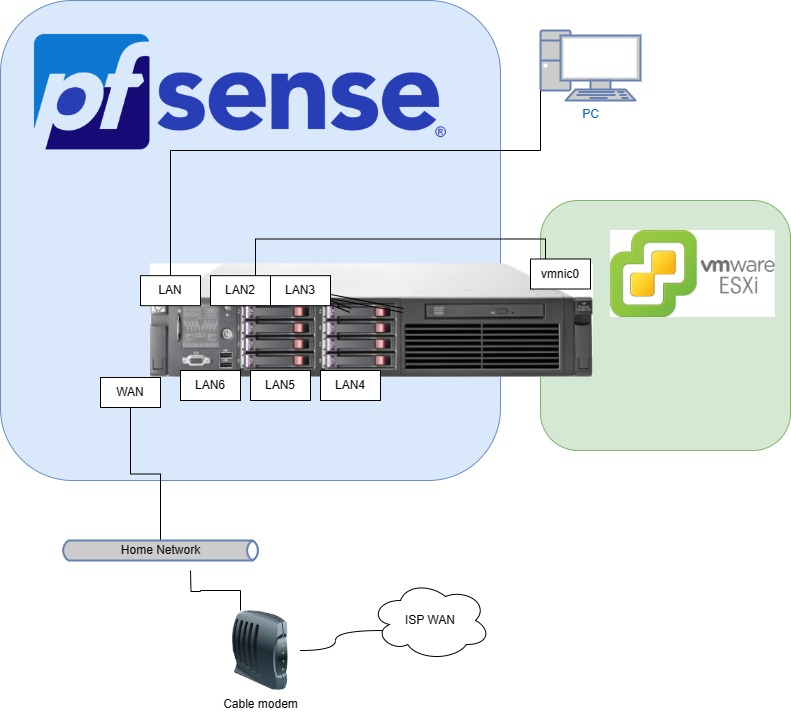
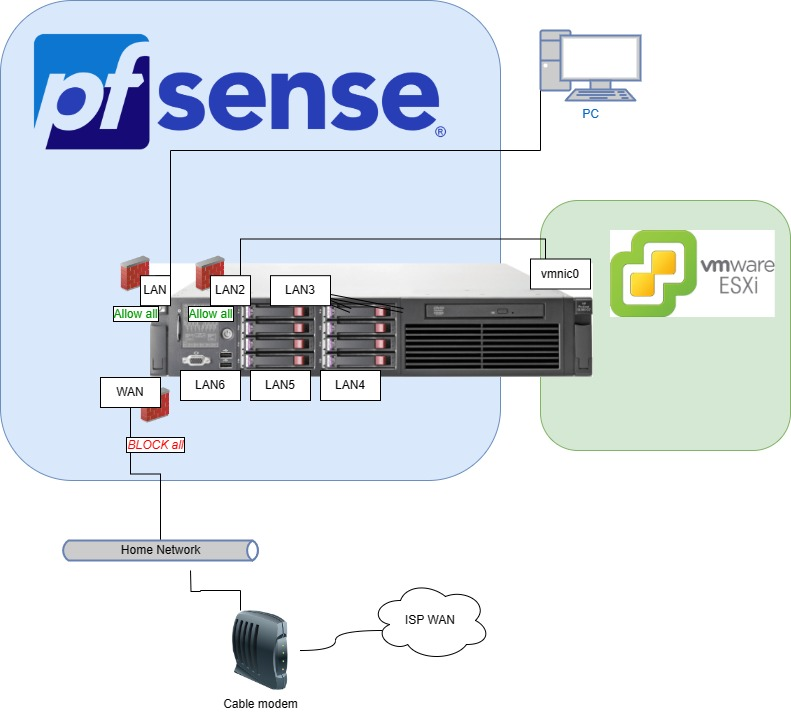
iso started

Changed region(s): [[0.1214, 0.3399, 0.3641, 0.4635], [0.1517, 0.5253, 0.2427, 0.6489]]

diff --git a/firstPFSense.md b/firstPFSense.md
@@ -294,7 +294,7 @@ My steps are based on the official guide [here](https://docs.netgate.com/pfsense
 
             All packets on LAN will go through the following assesments to determine if they will be routed to another interface:
             - ALLOW if the packet is destined for a LAN address on port 443 or 80
-                - these are the HTTPS / HTTP ports, and is the first rule to ensure you can always connect to the PFSense webconfigurator (anti lock out rule)
+                - *these are the HTTPS / HTTP ports, & this rule ensures you can always connect to the PFSense webconfigurator (anti lock out rule).*
             - ALLOW if the packet is ipv4 and from the LAN network
             - ALLOW if the packet is ipv6 and from the LAN network
             - BLOCK if the packet does not match any of the above rules (firewall default)
@@ -314,14 +314,14 @@ My steps are based on the official guide [here](https://docs.netgate.com/pfsense
             - All traffic trying to get from LAN to another interface is explicitly allowed
             - All traffic trying to get from LAN2-LAN6 to another interface is blocked
         
-    7. #### **Network expansion**
+    7. #### **Expanding the Network**
 
         If you take a look at the summary of firewall rules above, our network currently has a single physical port enabled, and that interface is allowed to connect to any other interface - this is not exactly the most advanced architecture.
 
         Thankfully you have just set up a feature-complete network appliance and have all the tools you need to build the network of your dreams!
 
-        This section is a brief description of a few of the most obvious / simple ways to expand the network we have built
-    8. #### **Net expansion: Enable other interfaces**
+        The following sections are brief descriptions of a few obvious / simple ways to expand the network we have built
+    8. #### **Expanding the Network: Enable other interfaces**
         The easiest way to expand on our network is to get another port to behave in the manner that LAN does currently. 
 
         To do this, we will:
@@ -376,20 +376,33 @@ My steps are based on the official guide [here](https://docs.netgate.com/pfsense
         - Connected devices will obtain DHCP IP configuration from the server on that interface. With the settings I used in my example, here are the IP configurations I obtained after plugging into [LAN](https://github.com/mynah22/Homelab-Guides/raw/main/screenshots/firstConfig/pfs88.jpg) and [LAN2](https://github.com/mynah22/Homelab-Guides/raw/main/screenshots/firstConfig/pfs87.jpg) 
 
 
-    8. #### **Net Expansion: add unmanaged switch**
-        This method allows the connection of multiple devices to a single internal network. 
+    8. #### **Expanding the Network: add unmanaged switch**
+
+        *OPTIONAL: REQUIRES ADDITIONAL HARDWARE*
+
+        If you have an unmanaged switch, you can add more ports to a PFSense interface, allowing multiple devices to connect to a single internal network. 
         
-        Start by plugging an ethernet cable into a LAN port on one end, and connect the other end to an unmanaged switch. By doing this, any devices you connect to the unmanaged switch will become part of the LAN network to which the switch is connected.
-            
-    8. #### **Net Expansion: vLAN trunk port**
+        Plug an ethernet cable into a LAN port on one end, and connect the other end to an unmanaged switch. Now, any devices you connect to the unmanaged switch will become part of the LAN network to which the switch is connected.
 
-        This is a technique that allows you to route / firewall traffic between ports on a **managed** switch
+        Example:
+            *Let's say you build a 'workstation' network on LAN4 for your workstations, with detailed firewall rules defining access to / from other networks - but, you only have one port available where those rules apply. If you plug an unmanaged switch into LAN4, you are able to connect several PCs to that network*
+    8. #### **Expanding the Network: vLAN trunk port**
 
-        Here is a [diagram](https://github.com/mynah22/Homelab-Guides/raw/main/screenshots/firstConfig/vlanTrunk1.jpg)
+        *OPTIONAL: REQUIRES ADDITIONAL HARDWARE*
+
+        A single PFSense interface can be used to route / manage traffic between all ports / vlans on a managed switch via trunk ports (802.1q)
+
+        This is a very powerful architecture, and is used to create robust networks using only a few ports on the server.
+
+        Here is a simple diagram 
+        
+        ![diagram](https://github.com/mynah22/Homelab-Guides/raw/main/screenshots/firstConfig/vlanTrunk1.jpg)
 
         I will link my documentation on this process here when it is complete.
     
-    9. #### **Net Expansion: WAP**
+    9. #### **Expanding the Network: WAP**
+
+        *OPTIONAL: REQUIRES ADDITIONAL HARDWARE*
 
          When you connect a Wireless Access Point (WAP) to a LAN port, all devices that connect to the WAP's SSID will have their traffic managed by PFSense. This means that the firewall rules set for that interface in PFSense will control and route the traffic of those devices.
 
@@ -404,32 +417,30 @@ My steps are based on the official guide [here](https://docs.netgate.com/pfsense
         2. plug an ethernet cable into the ESXI management port (vmnic0) on one end, and a LAN2 on the other
         2. the esxi hypervisor will obtain a DHCP lease from the PFSense DHCP server on that interface
         4. Since LAN and LAN2 have a firewall rule allowing all ipv4 packets, traffic can pass between them
-        4. on your PC, browse to the IP of the ESXI server. This IP will be listed on the server display (if you connect a vga monitor), but an easy way to determine this remotely is by looking for the hypervisor's DHCP lease:
+        4. Determine the IP of the ESXI server. This IP will be listed on the server display (if you connect a vga monitor), but an easy way to determine this remotely is by looking for the hypervisor's DHCP lease:
             - Status - dhcp leases ([screenshot](https://github.com/mynah22/Homelab-Guides/raw/main/screenshots/firstConfig/pfs89.jpg))
             - This will show dhcp leases for *all interfaces*. Since we have a single device on LAN2, it should be easy to identify using the DHCP ip range on LAN2 ([screenshot](https://github.com/mynah22/Homelab-Guides/raw/main/screenshots/firstConfig/pfs90.jpg))
 
-        ![]()
-        5. Your browser should connect to the ESXI web management server, where you can manage Virtual Machines
+            ![](https://github.com/mynah22/Homelab-Guides/raw/main/screenshots/firstConfig/connectHypervisor.jpg)
+
+        5. With this configuration, your PC can connect to any device on LAN, LAN2, your home network, or the internet. You will be able to access the ESXI webgui and configure VMs by browsing to the IP of the ESXI server (as determined in the step above)
+
 
          
-        
-        - 
+4. ### **Moving forward**
 
+    Let the fun begin!
 
+    you are at a great milestone - you have a NATted lab network managed by pfsense that is happily nested in your home network. PFsense is only using a tiny amount of the available resources on your server, and everything is ready for you to build VMs via ESXI
+    
+    Your PC can connect to your home network and the internet, as well as LAN and LAN2 on the lab network. You can browse the internet, configure pfsense, and manage vms in ESXI all from the same connection, and without affecting the devices in your home network. 
 
+    At this point you will be able to start building out your network and VMs/services to your heart's content. I will demonstrate a [simple example](firstIsoVM.md) specifically for this build, and include generic guides that are not specific to this build
 
+    1. [Isolated Windows Server VM w/ PFSense & ESXI](firstIsoVM.md)
+    2. [DNS black hole]()
+    3. [PFSense openVPN]()
+    4. [free DDNS]()
+    5. [name.com DDNS]()
 
-
-7. DNS blackhole set up
-    * A DNS blackhole is a very effective way of blocking ads / trackers  / malware on the web. I works for all devices on the network, including devices that cannot install an adblocker locally. 
-    * this is definately not required, but only takes a few clicks in PFSense, and is one of the biggest benefits I get out of managing my own network, so I do it right away
-        1. There is one, noteable drabwack to running a DNS blackhole: occasionally, it will affect the performance of internet applications / websites. This is actually really easy to deal with if you follow the PFSense DNS Blackhole Allowlist Guide, but if you get frustrated you can always uninstall the PFBlockerNG-Devel package and keep seeing horrible ads :(
-        2. System > Package Manager
-        3. Available Packages > search for 'pfblockerng'> click 'install' ON PFBLOCKERNG-DEVEL PACKAGE (2nd search result)
-        4. click confirm
-        5. after a moment you should see the success message
-        6. click the PFSense logo at the top left left of the PFSense webgui to return to the main menu. The pfBlockerNG status area on the main page will go green oncew the blocklists load 
-
-8. DDNS
-    * free first
-    * name.com
+    Once you are comfortable with managing your lab network, you will probably want to also manage your home devices with PFSense. Check out the [Moving to the Edge Guide]()

diff --git a/firstiIsoVM.md b/firstiIsoVM.md
@@ -1,0 +1,26 @@
+# Windows server VM on isolated network
+This demonstration uses ESXI and PFSense to configure a windows server VM on an isolated network 
+
+## Requirements
+1. Completed the [Server & Hypervisor Setup Instructions](firstConfig.md) 
+2. Completed the [PFSense Setup instructions](firstPFSense.md)
+3. Windows server ISO on your PC
+
+## **Build Windows server VM**
+- ### **upload Windows Server ISO to ESXI** 
+
+    1. Browse to the ESXI server IP, and click on 'storage' > datastore browser ([screenshot](https://github.com/mynah22/Homelab-Guides/raw/main/screenshots/firstConfig/iso1.jpg))
+
+    2. Browse to the folder where you are storing your ISOs, and click upload. Select your copy of Windows Server ([screenshot](https://github.com/mynah22/Homelab-Guides/raw/main/screenshots/firstConfig/iso2.jpg))
+
+    3. You will see the upload progress in the datastore browser ([screenshot](https://github.com/mynah22/Homelab-Guides/raw/main/screenshots/firstConfig/iso3.jpg))
+
+    4. and you will see the file when it has uploaded successfully ([screenshot](https://github.com/mynah22/Homelab-Guides/raw/main/screenshots/firstConfig/iso4.jpg))
+
+- ### **Create Virtual Machine**
+    1. Virtual machines > create / register vm ([screenshot](https://github.com/mynah22/Homelab-Guides/raw/main/screenshots/firstConfig/iso0.jpg))
+    2. create a new virtual machine ? next ([screenshot](https://github.com/mynah22/Homelab-Guides/raw/main/screenshots/firstConfig/iso5.jpg))
+    3. Name- your choice. Guest OS family- Windows. Guest OS Version- Windows server 2016. Click 'Next' ([screenshot](https://github.com/mynah22/Homelab-Guides/raw/main/screenshots/firstConfig/iso6.jpg))
+    4. Select the datastore for the VM's virtual hard drive, click 'Next' ([screenshot](https://github.com/mynah22/Homelab-Guides/raw/main/screenshots/firstConfig/iso7.jpg))
+    5. CPU- 16, memory- 16MB (16384 MB), 100 GB hard drive, click 'Next ([screenshot](https://github.com/mynah22/Homelab-Guides/raw/main/screenshots/firstConfig/iso8.jpg))
+    6. Review details, click 'Finish' ([screenshot](https://github.com/mynah22/Homelab-Guides/raw/main/screenshots/firstConfig/iso9.jpg))

diff --git a/firstConfigIndex.md b/firstConfigIndex.md
@@ -62,5 +62,17 @@ NAS details:
 - Access via ISCSI
 
 
+7. DNS blackhole set up
+    * A DNS blackhole is a very effective way of blocking ads / trackers  / malware on the web. I works for all devices on the network, including devices that cannot install an adblocker locally. 
+    * this is definately not required, but only takes a few clicks in PFSense, and is one of the biggest benefits I get out of managing my own network, so I do it right away
+        1. There is one, noteable drabwack to running a DNS blackhole: occasionally, it will affect the performance of internet applications / websites. This is actually really easy to deal with if you follow the PFSense DNS Blackhole Allowlist Guide, but if you get frustrated you can always uninstall the PFBlockerNG-Devel package and keep seeing horrible ads :(
+        2. System > Package Manager
+        3. Available Packages > search for 'pfblockerng'> click 'install' ON PFBLOCKERNG-DEVEL PACKAGE (2nd search result)
+        4. click confirm
+        5. after a moment you should see the success message
+        6. click the PFSense logo at the top left left of the PFSense webgui to return to the main menu. The pfBlockerNG status area on the main page will go green oncew the blocklists load 
 
+8. DDNS
+    * free first
+    * name.com
 

diff --git a/firstConfig.md b/firstConfig.md
@@ -319,17 +319,12 @@ We are going to go through all of these mappings so that you are able to documen
 4. ### **Labelling and documentation**
     port 1 is our esxi management port and can be labelled as such
 
-    You should record the following information for each of the other port:
+    You should record the following information for each of the other ports:
     - physical label (good time to add one to the blank ports - I went with 'a', 'b', 'c', 'd')
     - NIC name (vmnic0-vmnic7)
     - ESXI port group / vswitch name
 
-    keep this info handy, you will be adding another name once we build PFSense
-
-5. ### **PFSense Interface Names**
-    We will be able to easily map these port groups to their PFSense interface name with the information we gathered here - at that point you will have all names and physical ports mapped 
-
-
+    keep this info handy, you will be adding another name once we build PFSense - at that point you will have all names and physical ports mapped! 
 
 ## Hypervisor set up complete
 
